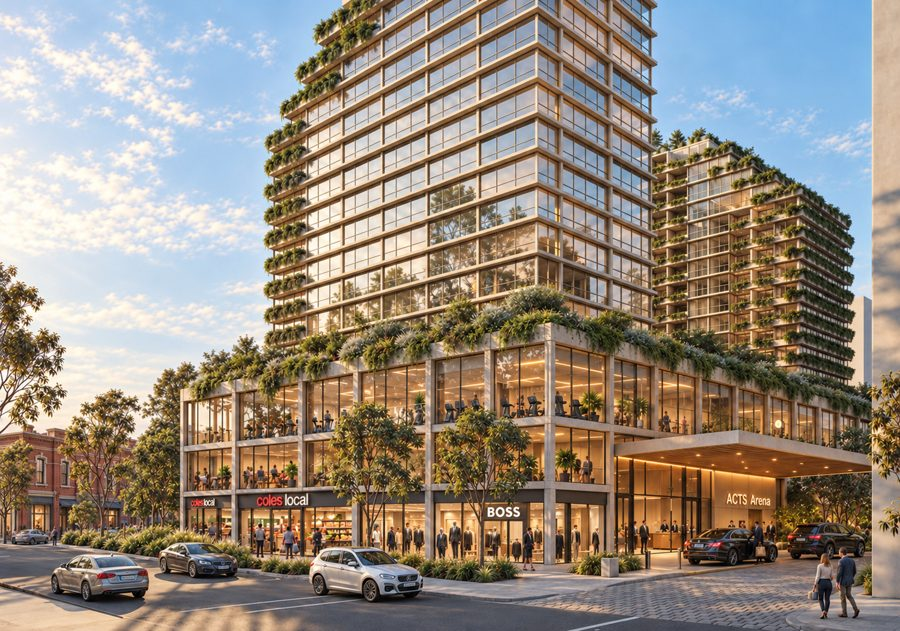
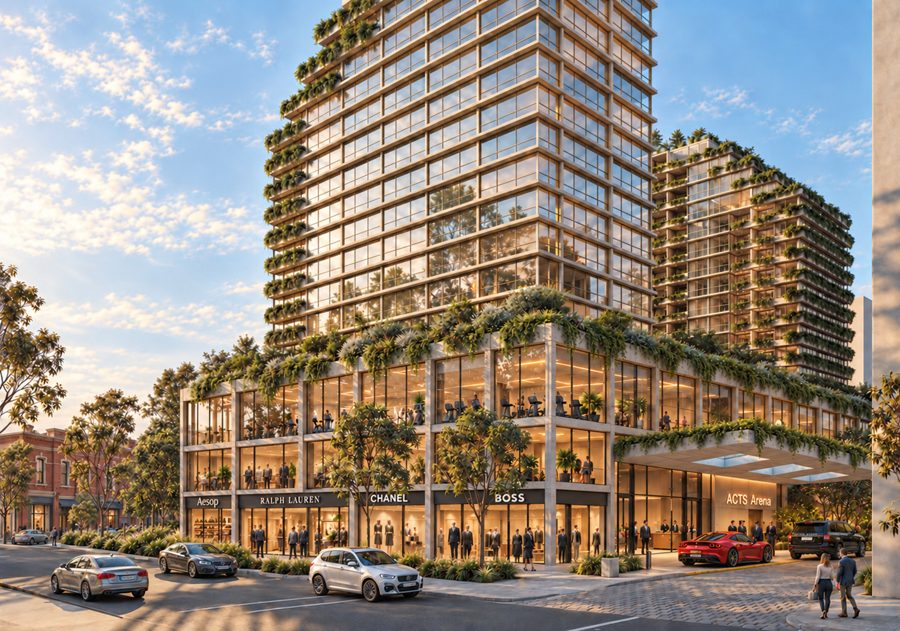
HORI7ON: Corio Quarter page 13 and the project gallery use the new corner render

Changed region(s): [[0.0, 0.0, 1.0, 0.9334], [0.6844, 0.1807, 0.7156, 0.2108]]

diff --git a/public/hori7on-next/decks/cunningham-acts/index.html b/public/hori7on-next/decks/cunningham-acts/index.html
@@ -612,10 +612,10 @@ html.print .rail .no{margin-right:0}
         <p class="eb a">04 · The design · The rear</p>
         <h2 class="mast m a" style="margin-top:22px;--d:.12s">The rear.<span class="it">Drop off, and retail.</span></h2>
         <p class="body a" style="margin-top:30px;--d:.3s">At the rear, a covered drop off leads straight into the <b>ACTS Arena entry</b>, so a game or an event arrives under cover.</p>
-        <p class="body a" style="margin-top:16px;--d:.4s">Along the street the ground floor carries everyday retail, a local grocer and fashion among it, with the gym above.</p>
+        <p class="body a" style="margin-top:16px;--d:.4s">Along the street the ground floor carries fashion and lifestyle retail, with the gym above.</p>
         <p class="fn a" style="margin-top:auto;--d:.55s">Retail names and signage shown in the render are illustrative. They are not confirmed tenants.</p>
       </div>
-      <div class="col" style="min-height:0;justify-content:center"><div class="plate a w" style="flex:none;aspect-ratio:1498/1050;--d:.2s"><img src="a/r-rear.jpg" alt="The rear of Corio Quarter, with the ACTS Arena entry drop off and ground floor retail"></div><div class="cap"><span>Fig. 02 · The rear, with the ACTS Arena entry and retail</span><span>Indicative</span></div></div>
+      <div class="col" style="min-height:0;justify-content:center"><div class="plate a w" style="flex:none;aspect-ratio:1498/1050;--d:.2s"><img src="a/r-corner.jpg" alt="The rear of Corio Quarter, with the ACTS Arena entry drop off and ground floor retail"></div><div class="cap"><span>Fig. 02 · The rear, with the ACTS Arena entry and retail</span><span>Indicative</span></div></div>
     </div>
   </div>
 </section>
